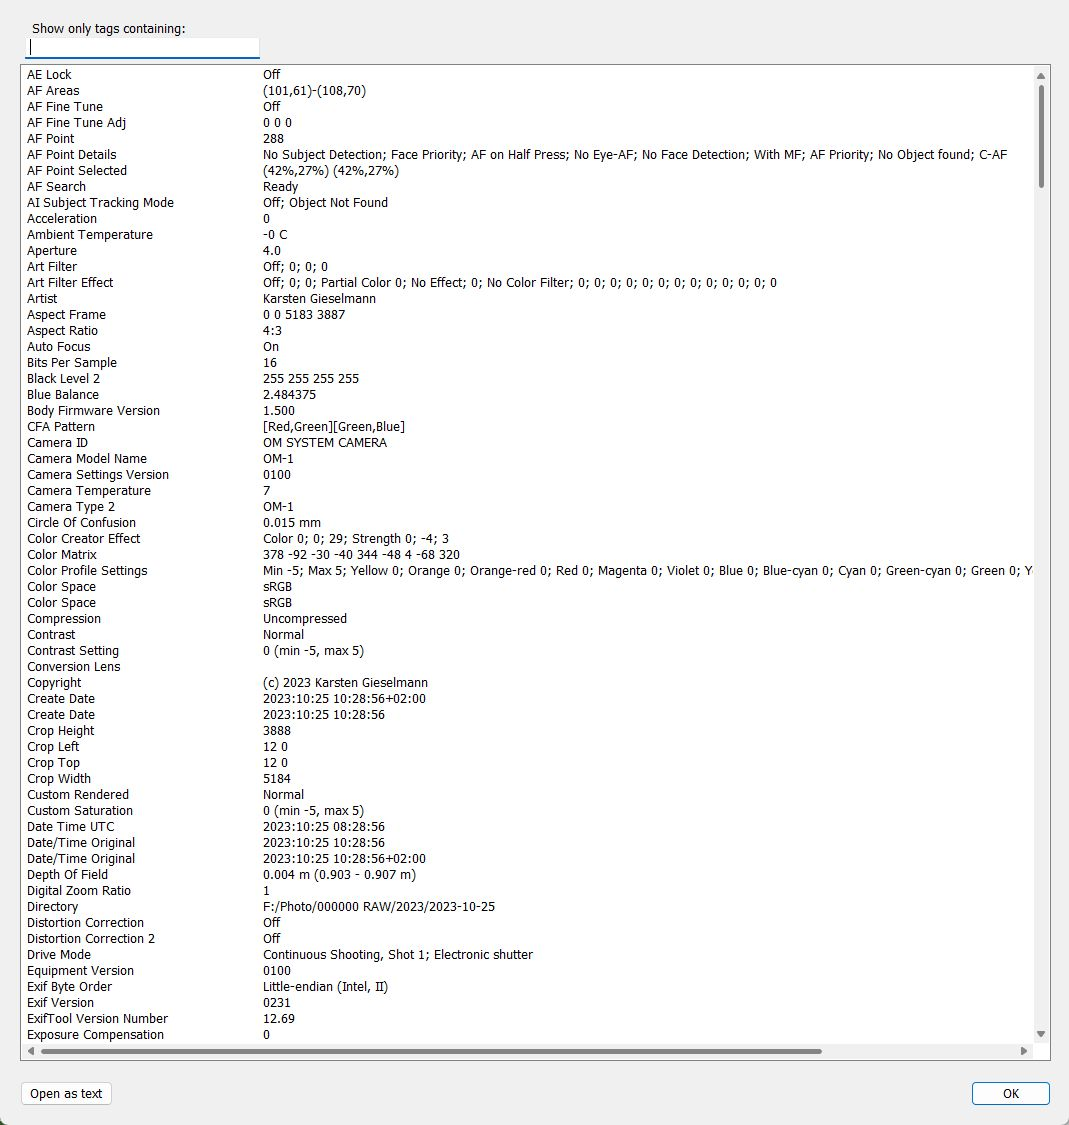
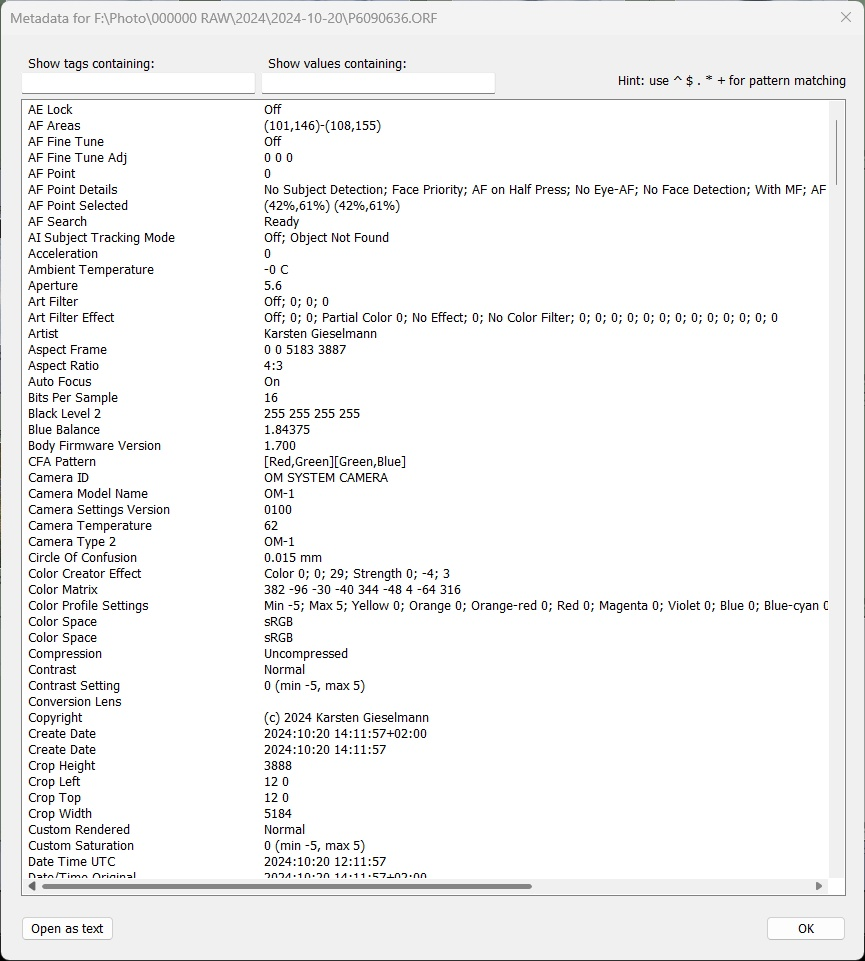
Doc update

Changed region(s): [[0.0, 0.0, 1.0, 1.0], [0.7179, 0.0624, 0.8116, 0.0937], [0.5618, 0.2497, 0.6555, 0.281]]

diff --git a/README.md b/README.md
@@ -8,17 +8,37 @@ A plugin for Lightroom Classic (LrC on Windows, macOS) to
 
 For details on scope and limitations as well as comprehensive operating instructions see [User Documentation](docs/Focus%20Points.md).
 
-<img src="screens/screen1.png" alt="Screenshot" style="width: 200px;"/>
+<img src="screens/ReadMe 2.jpg" alt="Screenshot" style="width: 800px;"/>
 
 Current Release
 --------
-## V2.5.0, xx April 2025
+## V2.5.0, xx March 2025
 
-xxx
+**New features and changes:**
+ 
+* Improved user interface
+  * Multi-image processing: select multiple images in Lightroom before starting the plugin [#210](https://github.com/musselwhizzle/Focus-Points/issues/210)
+  * Side-by-side presentation of camera settings and autofocus details to support assessment of focus results [#214](https://github.com/musselwhizzle/Focus-Points/issues/214)
+    * Autofocus details implemented for Canon, Nikon, Sony, Fuji, Panasonic, Olympus, Apple
+    * Pentax pending
+  * User can choose focus box color and for 'focus pixel' points also box size [#215](https://github.com/musselwhizzle/Focus-Points/issues/215)
+  * One-click access to logfile provides more detailed information when focus point display fails [#217](https://github.com/musselwhizzle/Focus-Points/issues/217)
+  * Automatic sizing of plugin dialog windows according to Windows Display Scale setting [#216](https://github.com/musselwhizzle/Focus-Points/issues/216)
+  * Metadata Viewer: filtering of both tags and values columns supported  [#221](https://github.com/musselwhizzle/Focus-Points/issues/221)
+  
+
+* exiftool 13.20
+ 
+
+* Comprehensive user documentation
+
+
+**Supported cameras:**
+See below
 
 For history of versions and changes see [changelog.](docs/changelog.md)
 
-[Download release](https://github.com/musselwhizzle/Focus-Points/releases/tag/v2.1.0)
+[Download release](https://github.com/musselwhizzle/Focus-Points/releases/latest)
 
 
 Supported Cameras
@@ -80,9 +100,10 @@ Installing
 1. Download the _**source code.zip**_ file from [latest release](https://github.com/musselwhizzle/Focus-Points/releases/latest).
 2. Move this folder to where you'd normally kept your Lightroom plugins.<br>Hint: if you don't know this folder, the Plugin Manager will show you (see next step) 
 3. Open Lightroom and go to File -> Plug-in Manager. Then click the "Add" button and select the folder
-4. Once installed, select one or more photos and invoke the plugin via  
-Library -> Plug-in Extras -> Focus Point, or  
-File -> Plug-in Extras -> Focus Point
+
+Once installed, select one or more photos and invoke the plugin via
+* Library -> Plug-in Extras -> Show Focus Point, or  
+* File -> Plug-in Extras -> Show Focus Point
 
 
 <img src="screens/plugin_extra.png" alt="Screenshot" style="width: 200px;"/>
@@ -101,38 +122,24 @@ Please note that not all cameras save the needed information to support these fe
 
 Metadata viewer
 --------
-The plugin also features a metadata viewer with live search. This comes in handy eg. for viewing any information that is not visible in the info sections of the focus point windows. The information is fetched directly from the image file on disk so that this gives the full picture of metadata written by the camera:
+The plugin also features a metadata viewer with live search: 
+  
+* Library -> Plug-in Extras -> Show Metadata, or  
+* File -> Plug-in Extras -> Show Metadata
 
-<img src="screens/metadata1.jpg" alt="Screenshot" style="width: 200px;"/>         <img src="screens/metadata2.jpg" alt="Screenshot" style="width: 200px;"/>
+The Metadata Viewer comes in handy for viewing any information that is not visible in the info sections of the focus point windows. The information is fetched directly from the image file on disk so it gives a full picture of metadata written by the camera. Metadata can be filtered by keys or value. The filter accepts pattern matching using commonly known 'magic characters':  
 
-<!--
-Adding your own camera
---------
-It's very likely your camera is already supported. So try the plugin first before doing anything. :)
-
-If your camera reports its focus points dynamically, adding support for you camera should be easy. Simply update or create a new CameraDelegate which extracts the focus points. Update the PointsRendererFactory so it knows about this new camera.
-
-If your camera does not report its focus points dynamically, such as in the case of Nikons, this should be as painless as possible. You will need to map all of your camera's focus points to pixel coordinates. Refer to the "focus_points/nikon corporation/nikon d7200.txt" as an example.
-```
--- 1st column
-B1 = {810, 1550}
-C1 = {810, 1865}
-D1 = {810, 2210}
-
--- an so on
-```
-The best way I found to do this was to set up a ruler/tape measure, get out my camera and I took a photo at each of the focus points lining it up exactly with the 1-inch mark. I then imported those pictures into Lightroom and ran this plugin so I could see the metadata. From the metadata, I could see the focus points name. I then took the image into photoshop and measured from the top left corner of the image to the top left corner of the focus point. I compared the preview from the camera to my photoshop selection and got as close as possible. Once you have done all of that, add the file to "focus_points/{camera_maker}/{camera_model}.txt" using all lowercase. Then all is done.
-
-The camera model must only contain characters valid on all supported file systems. If a character is not valid (for example '\*' in the model "PENTAX \*ist D") it must be mapped to a valid character combination.
-The mapping is done in PointsUtils.readFromFile(): '\*' -> '\_a\_'. 
-
-If 2 or more cameras share a common points mapping, simplying add that to the list of known duplicate as in the NikonDuplicates file. With this, both Nikon D7100 and Nikon D7200 will share the same mapping file. 
+ | Char  | <div align="left">Meaning</div>                | 
+ |:-----:|------------------------------------------------|
+ |   .   | any character                                  | 
+ |   +   | one or more repetitions of previous character  |
+ |   *   | zero or more repetitions of previous character |                                            
+ |   ^   | start of line/string                           |
+ |   $   | end of line/string                             |              
 
 
-Known Issues
---------
-1. Not compatible if photo was edited in Photoshop. 3rd party tools often remove the necessary metadata from the image. 
--->
+<img src="screens/metadata1.jpg" alt="Screenshot" style="width: 200px;"/>         <img src="screens/metadata2.jpg" alt="Screenshot" style="width: 200px;"/>         <img src="screens/metadata3.jpg" alt="Screenshot" style="width: 200px;"/>
+
 
 Contributing as a Developer
 --------

diff --git a/docs/Focus Points.md b/docs/Focus Points.md
@@ -201,7 +201,29 @@ Missuccess in detecting focus points is usually the result of missing or unexpec
 <br>
 
 ### 2.4 Metadata Viewer
-Will be documented later
+The plugin also features a Metadata Viewer with live search: 
+  
+* Library -> Plug-in Extras -> Show Metadata, or  
+* File -> Plug-in Extras -> Show Metadata
+
+This comes in handy for viewing any information that is not visible in the info sections of the focus point window. The data is fetched by ExifTool directly from the image file on disk so it gives a full picture of the metadata written by the camera. Metadata can be filtered by key or value search terms. The filter accepts pattern matching with the commonly known “magic characters”:    
+
+ | Char  | <div align="left">Meaning</div>                | 
+ |:-----:|------------------------------------------------|
+ |   .   | any character                                  | 
+ |   +   | one or more repetitions of previous character  |
+ |   *   | zero or more repetitions of previous character |                                            
+ |   ^   | start of string                                |
+ |   $   | end of string                                  |              
+
+Note:  
+The plugin is written in Lua programming language and uses Lua string.find() for filtering. This function supports "Lua patterns", so you could use even more [sophisticated pattern matching](https://www.lua.org/pil/20.2.html). However, for filtering a simple EXIF data output, basic pattern matching should be more than sufficient. 
+
+For further processing as text, the full metadata (retrieved via 'exiftool -a -u -sort <file>') can also be opened in a text editor.  
+
+
+<img src="../screens/metadata1.jpg" alt="Screenshot" style="width: 200px;"/>         <img src="../screens/metadata2.jpg" alt="Screenshot" style="width: 200px;"/>         <img src="../screens/metadata3.jpg" alt="Screenshot" style="width: 200px;"/>
+
 
 ## 3. Display of Focus Points
 The subchapters in this section describe in more detail which focus point features are supported by the plugin for individual camera makers and specific lines or models. This can be different colors for different statuses (e.g. focus point selected, in focus, inactive), or face/subject detection frames. The level to which such features can be supported ultimately depends on the availability of corresponding data in EXIF maker notes.

diff --git a/docs/changelog.md b/docs/changelog.md
@@ -12,6 +12,7 @@ Change history
   * User can choose focus box color and for 'focus pixel' points also box size [#215](https://github.com/musselwhizzle/Focus-Points/issues/215)
   * One-click access to logfile provides more detailed information when focus point display fails [#217](https://github.com/musselwhizzle/Focus-Points/issues/217)
   * Automatic sizing of plugin dialog windows according to Windows Display Scale setting [#216](https://github.com/musselwhizzle/Focus-Points/issues/216)
+  * Metadata Viewer: filtering of both tags and values columns supported  [#221](https://github.com/musselwhizzle/Focus-Points/issues/221)
   
 
 * exiftool 13.20
